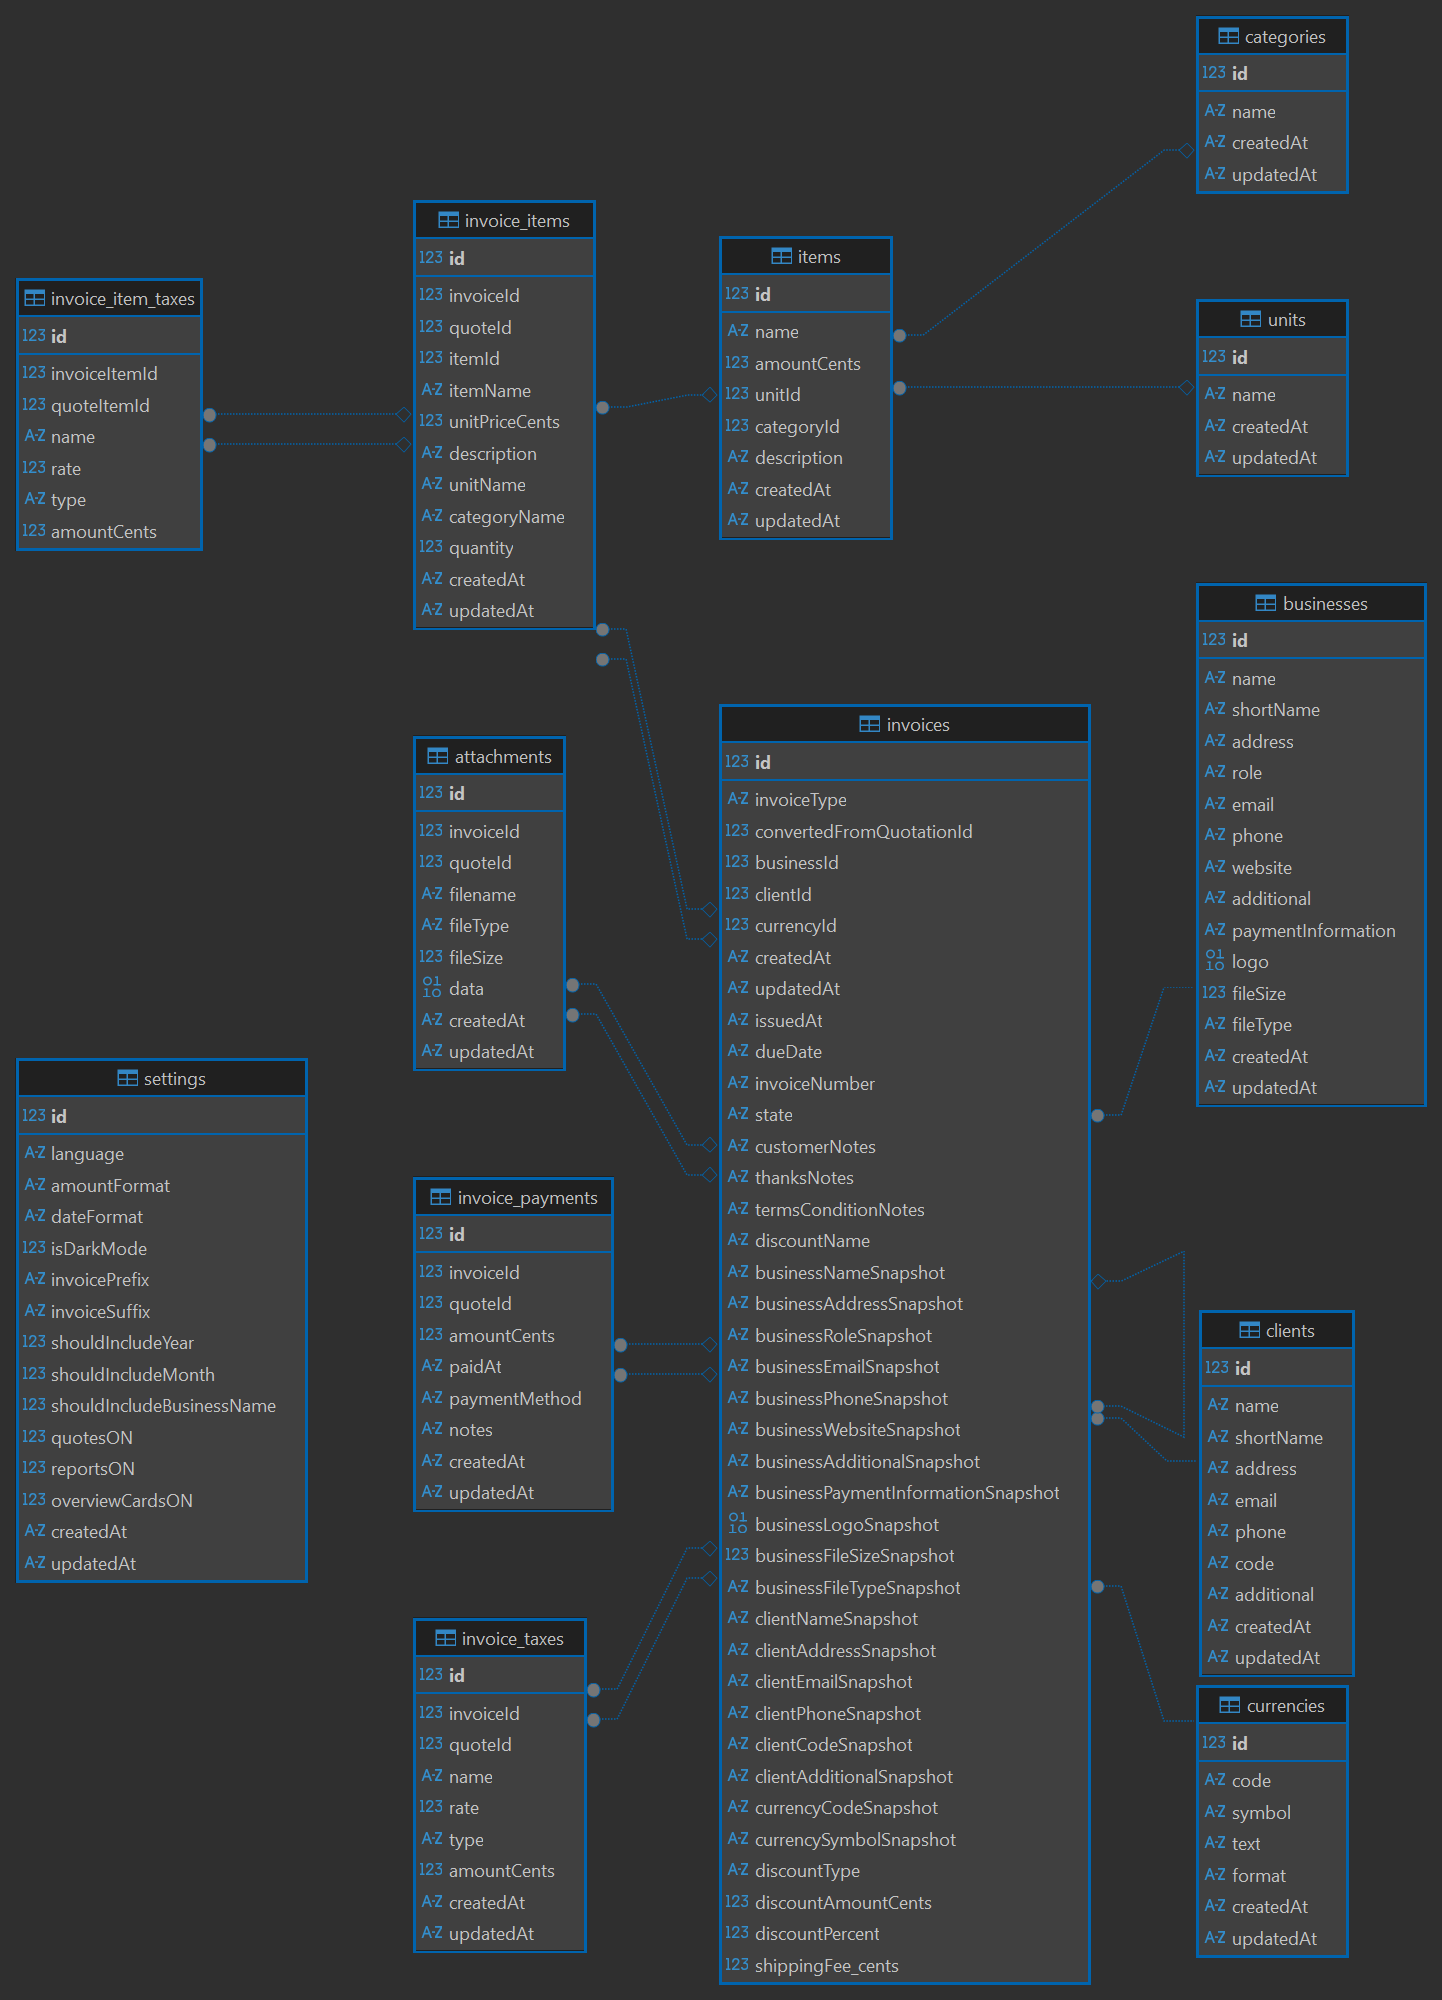
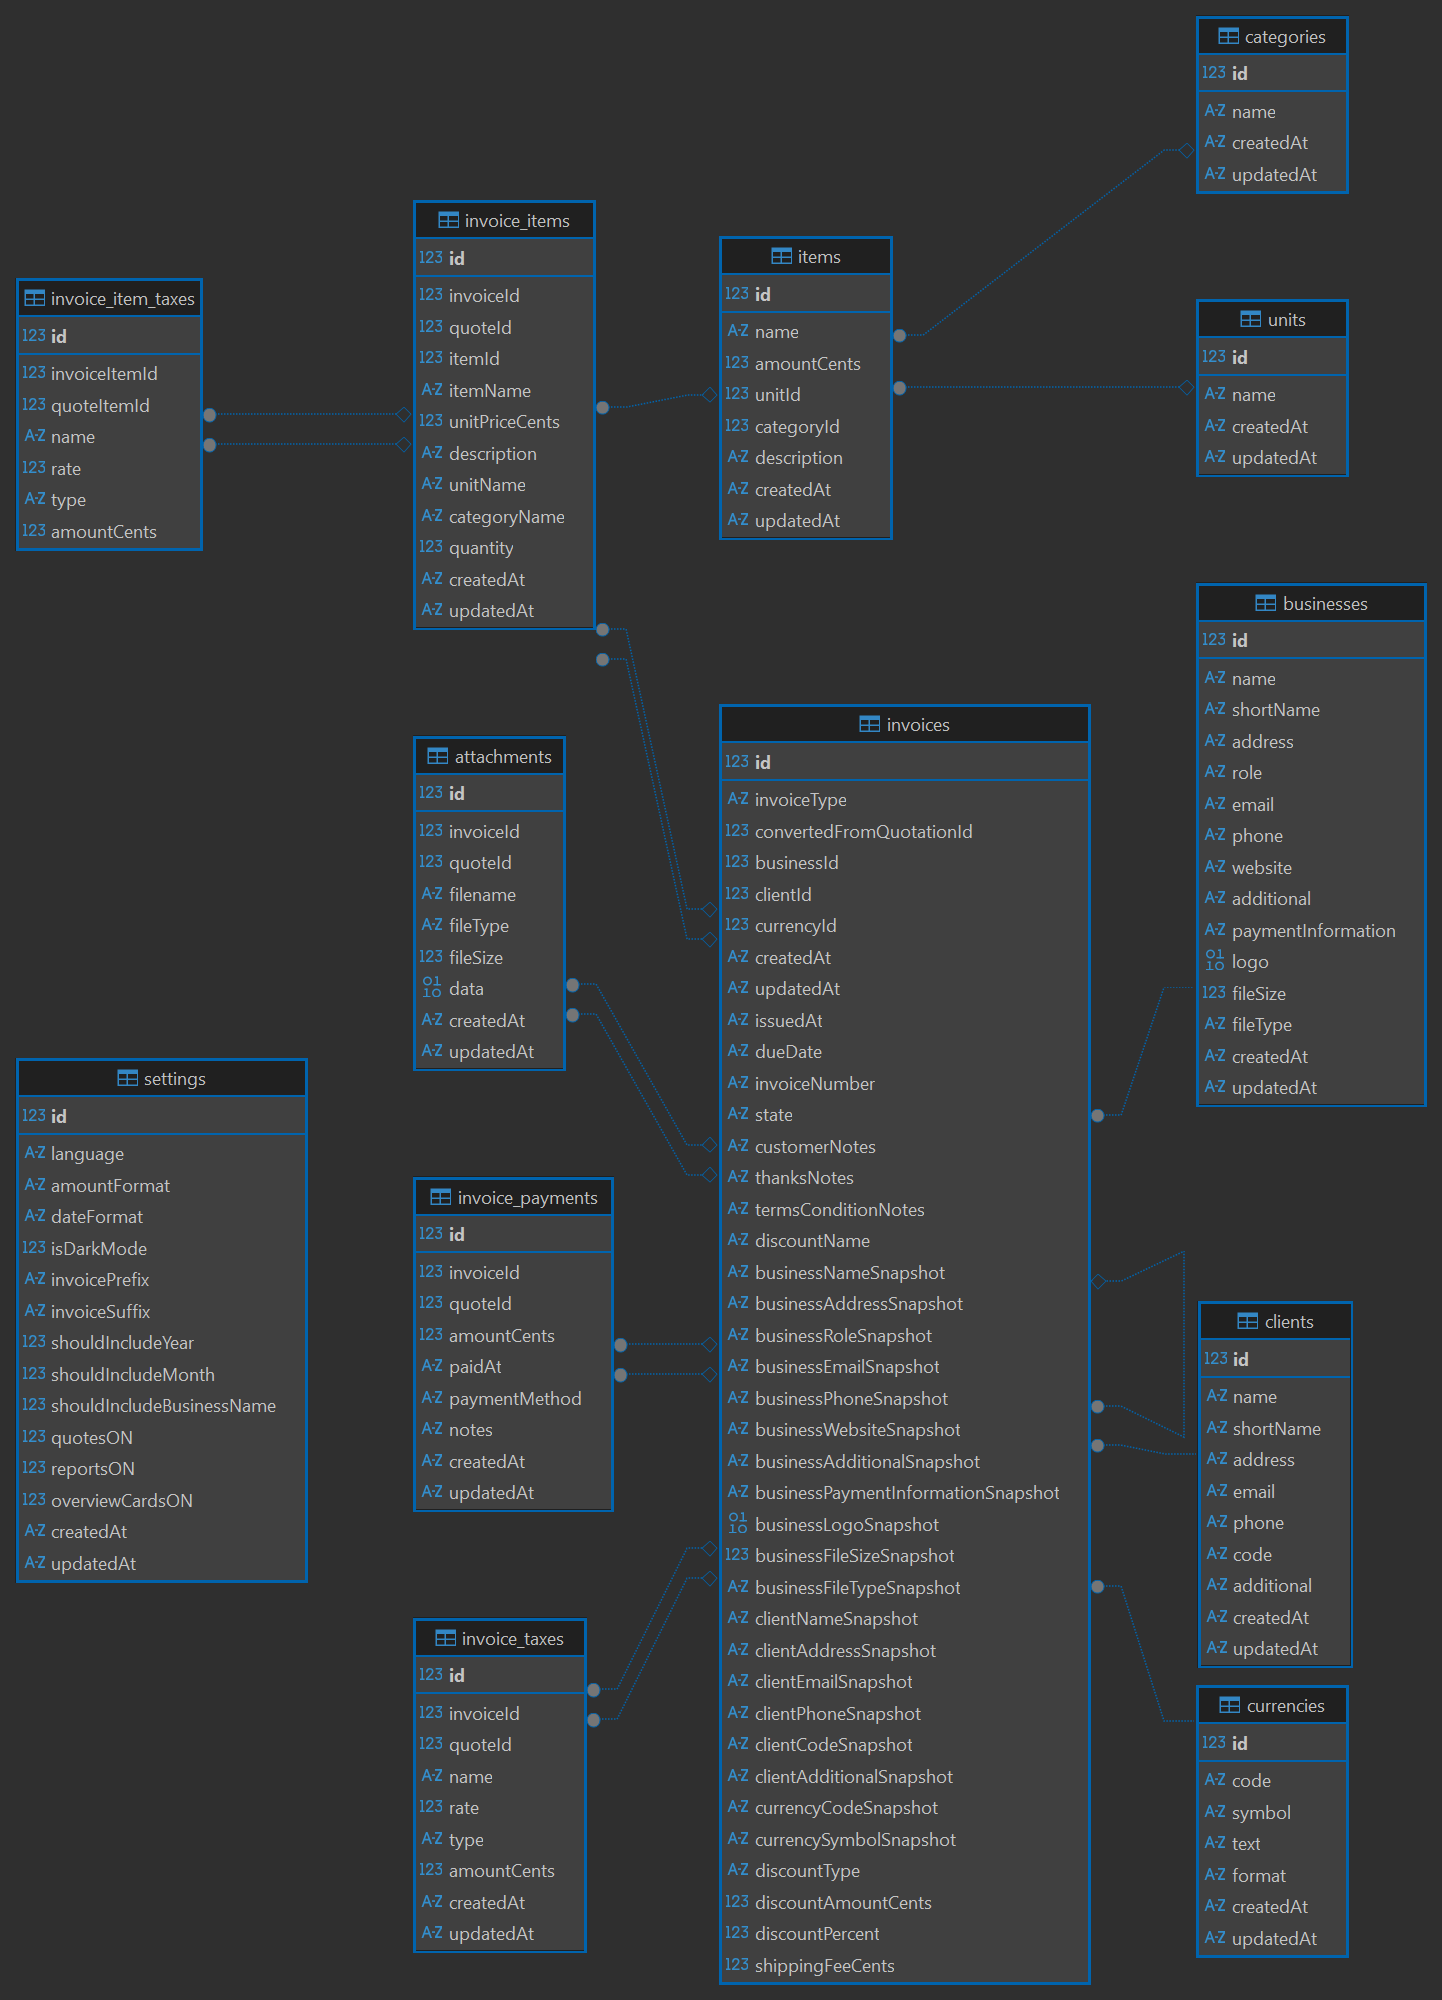
renamed invoice column

Changed region(s): [[0.8114, 0.651, 0.9362, 0.837], [0.5929, 0.961, 0.6241, 0.992]]

diff --git a/src/main/database.ts b/src/main/database.ts
@@ -219,7 +219,7 @@ const init = async () => {
       discountType TEXT CHECK(discountType IN ('fixed','percentage')),
       discountAmountCents INTEGER DEFAULT 0, 
       discountPercent REAL DEFAULT 0 ,
-      shippingFee_cents INTEGER NOT NULL DEFAULT 0,
+      shippingFeeCents INTEGER NOT NULL DEFAULT 0,
       FOREIGN KEY (businessId) REFERENCES businesses(id),
       FOREIGN KEY (clientId) REFERENCES clients(id),
       FOREIGN KEY (currencyId) REFERENCES currencies(id),
